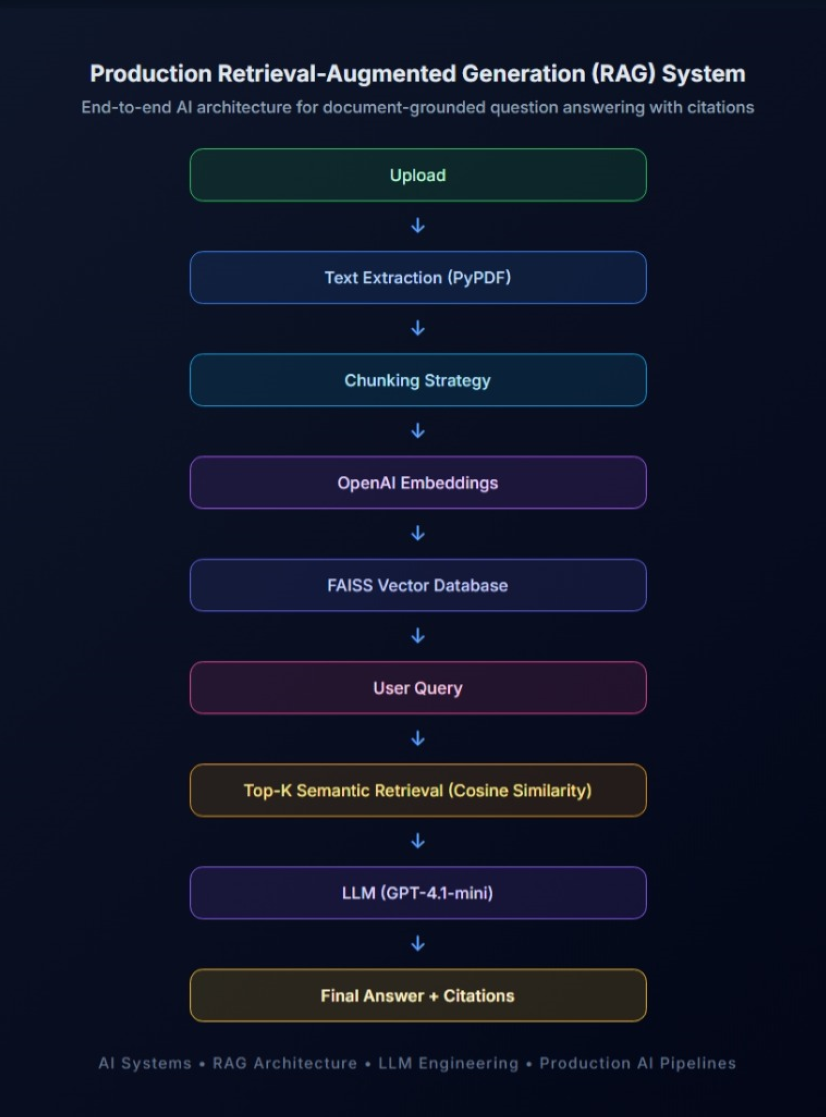
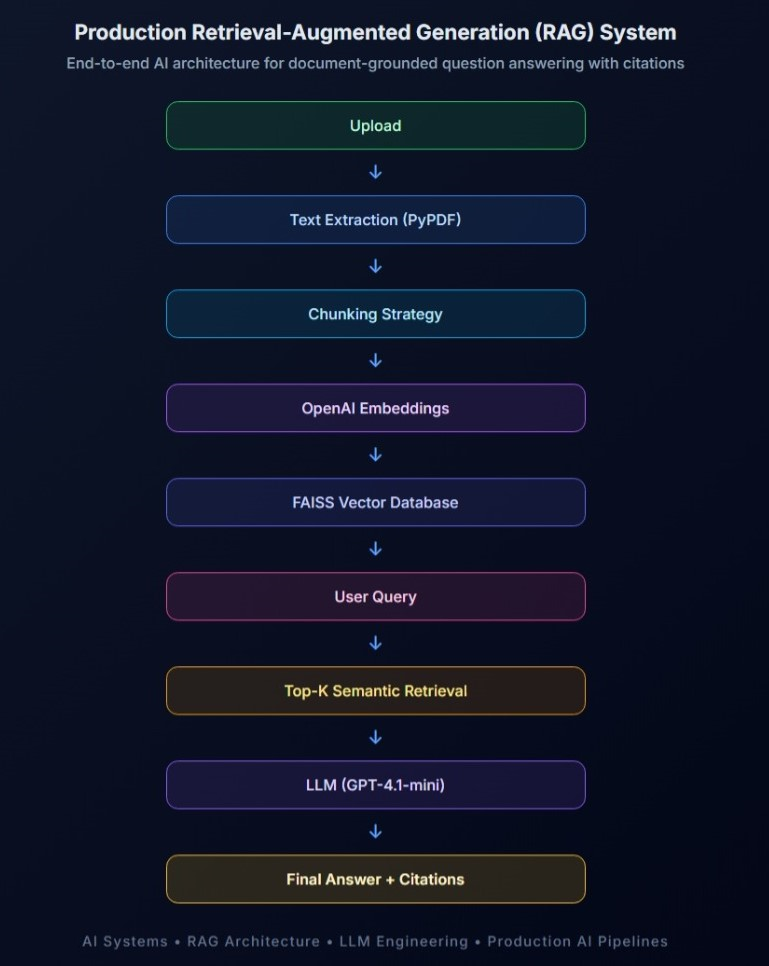
Updated README with system-architecture

Changed region(s): [[0.0936, 0.0, 0.9051, 0.9938]]

diff --git a/README.md b/README.md
@@ -70,9 +70,9 @@ This project uses Retrieval-Augmented Generation (RAG) to retrieve relevant docu
 
 ###   AI / ML
 - OpenAI GPT-4.1-mini
-- OpenAI Embeddings (`text-embedding-3-small`)
+- OpenAI Embeddings (text-embedding-3-small)
 - FAISS Vector Database
-- Cosine Similarity Retrieval
+- Similarity Retrieval
 
 ###   Backend
 - FastAPI
